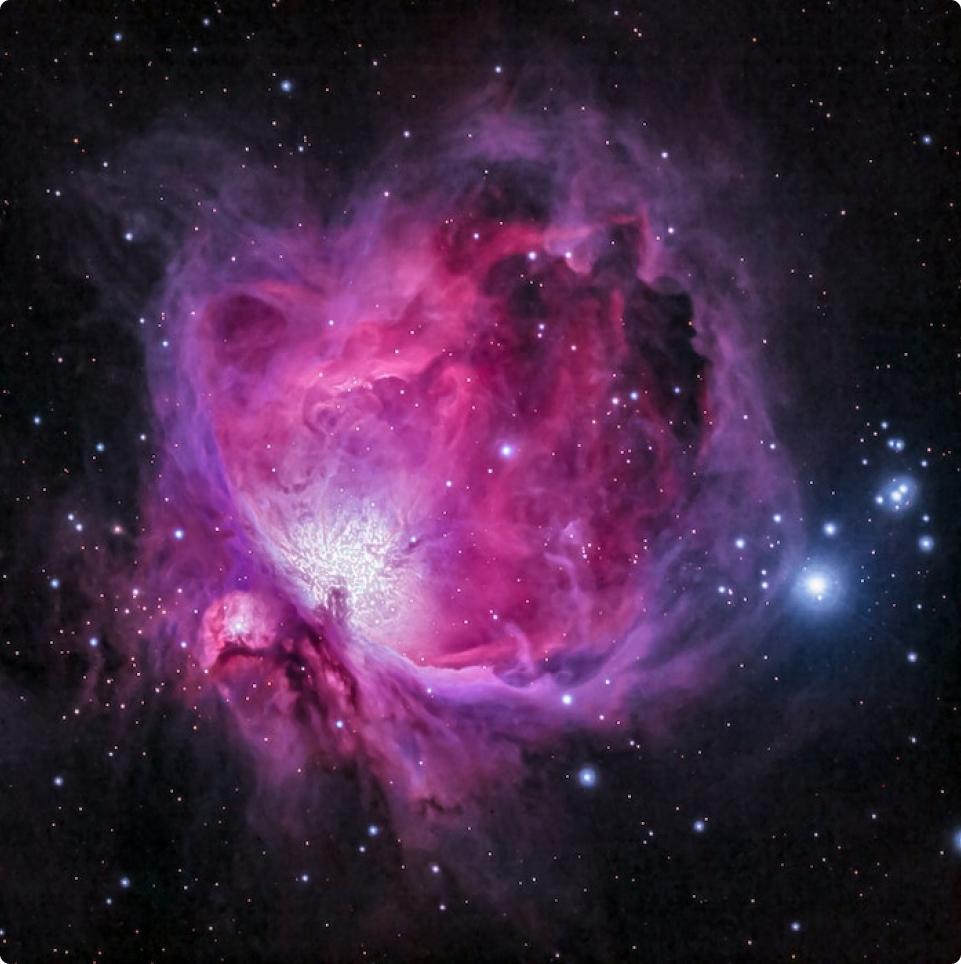
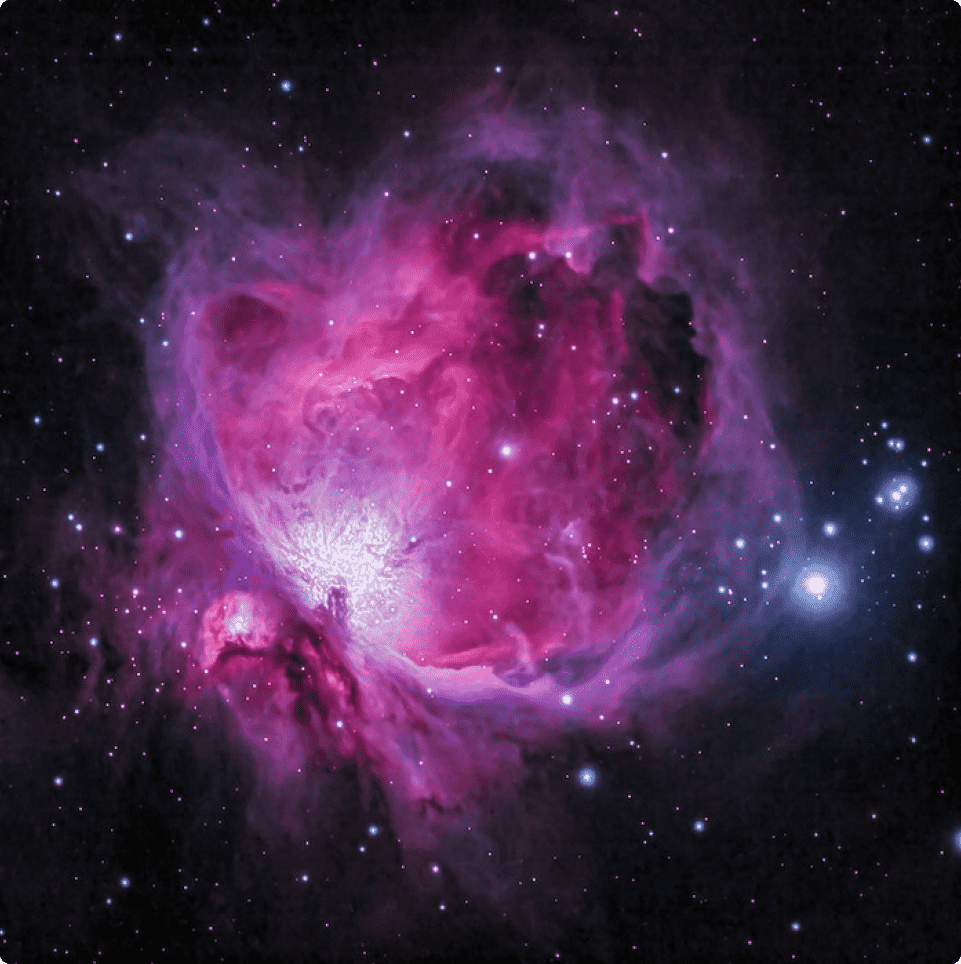
removed uncompressed images

Changed region(s): [[0.8117, 0.5913, 0.8741, 0.6535], [0.4683, 0.6846, 0.5307, 0.7469], [0.2497, 0.5913, 0.281, 0.6224]]

diff --git a/src/pages/Home/data.js b/src/pages/Home/data.js
@@ -3,8 +3,8 @@ export const cardsData = [
     {
         id: `${Math.random() * Math.random()}`,
         images: {
-            '1x': `${process.env.PUBLIC_URL}/assets/1xblue-nebula-compressed.png`,
-            '2x': `${process.env.PUBLIC_URL}/assets/2xblue-nebula-compressed.png`,
+            '1x': `${process.env.PUBLIC_URL}/assets/1xblue-nebula.png`,
+            '2x': `${process.env.PUBLIC_URL}/assets/2xblue-nebula.png`,
             '4x': `${process.env.PUBLIC_URL}/assets/4xblue-nebula.png`,
         },
         title: 'Move the borders of reality',
@@ -14,8 +14,8 @@ export const cardsData = [
     {
         id: `${Math.random() * Math.random()}`,
         images: {
-            '1x': `${process.env.PUBLIC_URL}/assets/1xbrown-nebula-compressed.png`,
-            '2x': `${process.env.PUBLIC_URL}/assets/2xbrown-nebula-compressed.png`,
+            '1x': `${process.env.PUBLIC_URL}/assets/1xbrown-nebula.png`,
+            '2x': `${process.env.PUBLIC_URL}/assets/2xbrown-nebula.png`,
             '4x': `${process.env.PUBLIC_URL}/assets/4xbrown-nebula.png`,
         },
         title: 'Space is not just stars and planets',
@@ -25,9 +25,9 @@ export const cardsData = [
     {
         id: `${Math.random() * Math.random()}`,
         images: {
-            '1x': `${process.env.PUBLIC_URL}/assets/1xmilky-way-compressed.png`,
-            '2x': `${process.env.PUBLIC_URL}/assets/2xmilky-way-compressed.png`,
-            '4x': `${process.env.PUBLIC_URL}/assets/4xmilky-way-compressed.png`,
+            '1x': `${process.env.PUBLIC_URL}/assets/1xmilky-way.png`,
+            '2x': `${process.env.PUBLIC_URL}/assets/2xmilky-way.png`,
+            '4x': `${process.env.PUBLIC_URL}/assets/4xmilky-way.png`,
         },
         title: 'For those who dream of stars',
         caption: 'Our offer: make your dream come true',
@@ -36,8 +36,8 @@ export const cardsData = [
     {
         id: `${Math.random() * Math.random()}`,
         images: {
-            '1x': `${process.env.PUBLIC_URL}/assets/1xpink-nebula-compressed.png`,
-            '2x': `${process.env.PUBLIC_URL}/assets/2xpink-nebula-compressed.png`,
+            '1x': `${process.env.PUBLIC_URL}/assets/1xpink-nebula.png`,
+            '2x': `${process.env.PUBLIC_URL}/assets/2xpink-nebula.png`,
             '4x': `${process.env.PUBLIC_URL}/assets/4xpink-nebula.png`,
         },
         title: 'Fulfill your fantastic dreams',
@@ -47,8 +47,8 @@ export const cardsData = [
     {
         id: `${Math.random() * Math.random()}`,
         images: {
-            '1x': `${process.env.PUBLIC_URL}/assets/1xblue-nebula-compressed.png`,
-            '2x': `${process.env.PUBLIC_URL}/assets/2xblue-nebula-compressed.png`,
+            '1x': `${process.env.PUBLIC_URL}/assets/1xblue-nebula.png`,
+            '2x': `${process.env.PUBLIC_URL}/assets/2xblue-nebula.png`,
             '4x': `${process.env.PUBLIC_URL}/assets/4xblue-nebula.png`,
         },
         title: 'Move the borders of reality',
@@ -58,8 +58,8 @@ export const cardsData = [
     {
         id: `${Math.random() * Math.random()}`,
         images: {
-            '1x': `${process.env.PUBLIC_URL}/assets/1xbrown-nebula-compressed.png`,
-            '2x': `${process.env.PUBLIC_URL}/assets/2xbrown-nebula-compressed.png`,
+            '1x': `${process.env.PUBLIC_URL}/assets/1xbrown-nebula.png`,
+            '2x': `${process.env.PUBLIC_URL}/assets/2xbrown-nebula.png`,
             '4x': `${process.env.PUBLIC_URL}/assets/4xbrown-nebula.png`,
         },
         title: 'Space is not just stars and planets',
@@ -69,9 +69,9 @@ export const cardsData = [
     {
         id: `${Math.random() * Math.random()}`,
         images: {
-            '1x': `${process.env.PUBLIC_URL}/assets/1xmilky-way-compressed.png`,
-            '2x': `${process.env.PUBLIC_URL}/assets/2xmilky-way-compressed.png`,
-            '4x': `${process.env.PUBLIC_URL}/assets/4xmilky-way-compressed.png`,
+            '1x': `${process.env.PUBLIC_URL}/assets/1xmilky-way.png`,
+            '2x': `${process.env.PUBLIC_URL}/assets/2xmilky-way.png`,
+            '4x': `${process.env.PUBLIC_URL}/assets/4xmilky-way.png`,
         },
         title: 'For those who dream of stars',
         caption: 'Our offer: make your dream come true',
@@ -80,8 +80,8 @@ export const cardsData = [
     {
         id: `${Math.random() * Math.random()}`,
         images: {
-            '1x': `${process.env.PUBLIC_URL}/assets/1xpink-nebula-compressed.png`,
-            '2x': `${process.env.PUBLIC_URL}/assets/2xpink-nebula-compressed.png`,
+            '1x': `${process.env.PUBLIC_URL}/assets/1xpink-nebula.png`,
+            '2x': `${process.env.PUBLIC_URL}/assets/2xpink-nebula.png`,
             '4x': `${process.env.PUBLIC_URL}/assets/4xpink-nebula.png`,
         },
         title: 'Fulfill your fantastic dreams',
@@ -91,8 +91,8 @@ export const cardsData = [
     {
         id: `${Math.random() * Math.random()}`,
         images: {
-            '1x': `${process.env.PUBLIC_URL}/assets/1xblue-nebula-compressed.png`,
-            '2x': `${process.env.PUBLIC_URL}/assets/2xblue-nebula-compressed.png`,
+            '1x': `${process.env.PUBLIC_URL}/assets/1xblue-nebula.png`,
+            '2x': `${process.env.PUBLIC_URL}/assets/2xblue-nebula.png`,
             '4x': `${process.env.PUBLIC_URL}/assets/4xblue-nebula.png`,
         },
         title: 'Move the borders of reality',
@@ -102,8 +102,8 @@ export const cardsData = [
     {
         id: `${Math.random() * Math.random()}`,
         images: {
-            '1x': `${process.env.PUBLIC_URL}/assets/1xbrown-nebula-compressed.png`,
-            '2x': `${process.env.PUBLIC_URL}/assets/2xbrown-nebula-compressed.png`,
+            '1x': `${process.env.PUBLIC_URL}/assets/1xbrown-nebula.png`,
+            '2x': `${process.env.PUBLIC_URL}/assets/2xbrown-nebula.png`,
             '4x': `${process.env.PUBLIC_URL}/assets/4xbrown-nebula.png`,
         },
         title: 'Space is not just stars and planets',
@@ -113,8 +113,8 @@ export const cardsData = [
     {
         id: `${Math.random() * Math.random()}`,
         images: {
-            '1x': `${process.env.PUBLIC_URL}/assets/1xblue-nebula-compressed.png`,
-            '2x': `${process.env.PUBLIC_URL}/assets/2xblue-nebula-compressed.png`,
+            '1x': `${process.env.PUBLIC_URL}/assets/1xblue-nebula.png`,
+            '2x': `${process.env.PUBLIC_URL}/assets/2xblue-nebula.png`,
             '4x': `${process.env.PUBLIC_URL}/assets/4xblue-nebula.png`,
         },
         title: 'Move the borders of reality',
@@ -124,8 +124,8 @@ export const cardsData = [
     {
         id: `${Math.random() * Math.random()}`,
         images: {
-            '1x': `${process.env.PUBLIC_URL}/assets/1xbrown-nebula-compressed.png`,
-            '2x': `${process.env.PUBLIC_URL}/assets/2xbrown-nebula-compressed.png`,
+            '1x': `${process.env.PUBLIC_URL}/assets/1xbrown-nebula.png`,
+            '2x': `${process.env.PUBLIC_URL}/assets/2xbrown-nebula.png`,
             '4x': `${process.env.PUBLIC_URL}/assets/4xbrown-nebula.png`,
         },
         title: 'Space is not just stars and planets',
@@ -135,9 +135,9 @@ export const cardsData = [
     {
         id: `${Math.random() * Math.random()}`,
         images: {
-            '1x': `${process.env.PUBLIC_URL}/assets/1xmilky-way-compressed.png`,
-            '2x': `${process.env.PUBLIC_URL}/assets/2xmilky-way-compressed.png`,
-            '4x': `${process.env.PUBLIC_URL}/assets/4xmilky-way-compressed.png`,
+            '1x': `${process.env.PUBLIC_URL}/assets/1xmilky-way.png`,
+            '2x': `${process.env.PUBLIC_URL}/assets/2xmilky-way.png`,
+            '4x': `${process.env.PUBLIC_URL}/assets/4xmilky-way.png`,
         },
         title: 'For those who dream of stars',
         caption: 'Our offer: make your dream come true',
@@ -146,8 +146,8 @@ export const cardsData = [
     {
         id: `${Math.random() * Math.random()}`,
         images: {
-            '1x': `${process.env.PUBLIC_URL}/assets/1xpink-nebula-compressed.png`,
-            '2x': `${process.env.PUBLIC_URL}/assets/2xpink-nebula-compressed.png`,
+            '1x': `${process.env.PUBLIC_URL}/assets/1xpink-nebula.png`,
+            '2x': `${process.env.PUBLIC_URL}/assets/2xpink-nebula.png`,
             '4x': `${process.env.PUBLIC_URL}/assets/4xpink-nebula.png`,
         },
         title: 'Fulfill your fantastic dreams',
@@ -157,8 +157,8 @@ export const cardsData = [
     {
         id: `${Math.random() * Math.random()}`,
         images: {
-            '1x': `${process.env.PUBLIC_URL}/assets/1xblue-nebula-compressed.png`,
-            '2x': `${process.env.PUBLIC_URL}/assets/2xblue-nebula-compressed.png`,
+            '1x': `${process.env.PUBLIC_URL}/assets/1xblue-nebula.png`,
+            '2x': `${process.env.PUBLIC_URL}/assets/2xblue-nebula.png`,
             '4x': `${process.env.PUBLIC_URL}/assets/4xblue-nebula.png`,
         },
         title: 'Move the borders of reality',
@@ -168,8 +168,8 @@ export const cardsData = [
     {
         id: `${Math.random() * Math.random()}`,
         images: {
-            '1x': `${process.env.PUBLIC_URL}/assets/1xbrown-nebula-compressed.png`,
-            '2x': `${process.env.PUBLIC_URL}/assets/2xbrown-nebula-compressed.png`,
+            '1x': `${process.env.PUBLIC_URL}/assets/1xbrown-nebula.png`,
+            '2x': `${process.env.PUBLIC_URL}/assets/2xbrown-nebula.png`,
             '4x': `${process.env.PUBLIC_URL}/assets/4xbrown-nebula.png`,
         },
         title: 'Space is not just stars and planets',
@@ -179,9 +179,9 @@ export const cardsData = [
     {
         id: `${Math.random() * Math.random()}`,
         images: {
-            '1x': `${process.env.PUBLIC_URL}/assets/1xmilky-way-compressed.png`,
-            '2x': `${process.env.PUBLIC_URL}/assets/2xmilky-way-compressed.png`,
-            '4x': `${process.env.PUBLIC_URL}/assets/4xmilky-way-compressed.png`,
+            '1x': `${process.env.PUBLIC_URL}/assets/1xmilky-way.png`,
+            '2x': `${process.env.PUBLIC_URL}/assets/2xmilky-way.png`,
+            '4x': `${process.env.PUBLIC_URL}/assets/4xmilky-way.png`,
         },
         title: 'For those who dream of stars',
         caption: 'Our offer: make your dream come true',
@@ -190,8 +190,8 @@ export const cardsData = [
     {
         id: `${Math.random() * Math.random()}`,
         images: {
-            '1x': `${process.env.PUBLIC_URL}/assets/1xpink-nebula-compressed.png`,
-            '2x': `${process.env.PUBLIC_URL}/assets/2xpink-nebula-compressed.png`,
+            '1x': `${process.env.PUBLIC_URL}/assets/1xpink-nebula.png`,
+            '2x': `${process.env.PUBLIC_URL}/assets/2xpink-nebula.png`,
             '4x': `${process.env.PUBLIC_URL}/assets/4xpink-nebula.png`,
         },
         title: 'Fulfill your fantastic dreams',
@@ -201,8 +201,8 @@ export const cardsData = [
     {
         id: `${Math.random() * Math.random()}`,
         images: {
-            '1x': `${process.env.PUBLIC_URL}/assets/1xblue-nebula-compressed.png`,
-            '2x': `${process.env.PUBLIC_URL}/assets/2xblue-nebula-compressed.png`,
+            '1x': `${process.env.PUBLIC_URL}/assets/1xblue-nebula.png`,
+            '2x': `${process.env.PUBLIC_URL}/assets/2xblue-nebula.png`,
             '4x': `${process.env.PUBLIC_URL}/assets/4xblue-nebula.png`,
         },
         title: 'Move the borders of reality',
@@ -212,8 +212,8 @@ export const cardsData = [
     {
         id: `${Math.random() * Math.random()}`,
         images: {
-            '1x': `${process.env.PUBLIC_URL}/assets/1xbrown-nebula-compressed.png`,
-            '2x': `${process.env.PUBLIC_URL}/assets/2xbrown-nebula-compressed.png`,
+            '1x': `${process.env.PUBLIC_URL}/assets/1xbrown-nebula.png`,
+            '2x': `${process.env.PUBLIC_URL}/assets/2xbrown-nebula.png`,
             '4x': `${process.env.PUBLIC_URL}/assets/4xbrown-nebula.png`,
         },
         title: 'Space is not just stars and planets',

diff --git a/src/pages/Home/home.scss b/src/pages/Home/home.scss
@@ -4,16 +4,16 @@
         justify-content: end;
         background:
             image-set(
-                    url('./1xearth-compressed.png') 1x,
-                    url('./2xearth-compressed.png') 2x,
-                    url('./4xearth-compressed.png') 4x
+                    url('./1xearth.png') 1x,
+                    url('./2xearth.png') 2x,
+                    url('./4xearth.png') 4x
                 )
                 no-repeat left 15px top -100px,
             linear-gradient($black-transparent, $grey-transparent),
             image-set(
-                    url('./1xgalaxy-compressed.png') 1x,
-                    url('./2xgalaxy-compressed.png') 2x,
-                    url('./4xgalaxy-compressed.png') 4x
+                    url('./1xgalaxy.png') 1x,
+                    url('./2xgalaxy.png') 2x,
+                    url('./4xgalaxy.png') 4x
                 )
                 no-repeat center;
         background-size:
